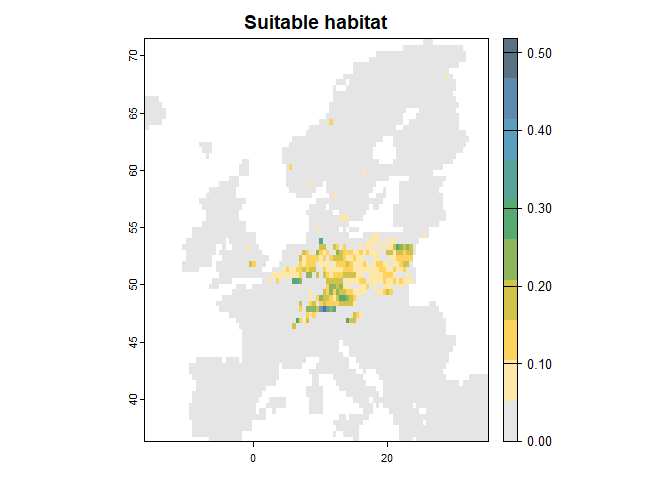
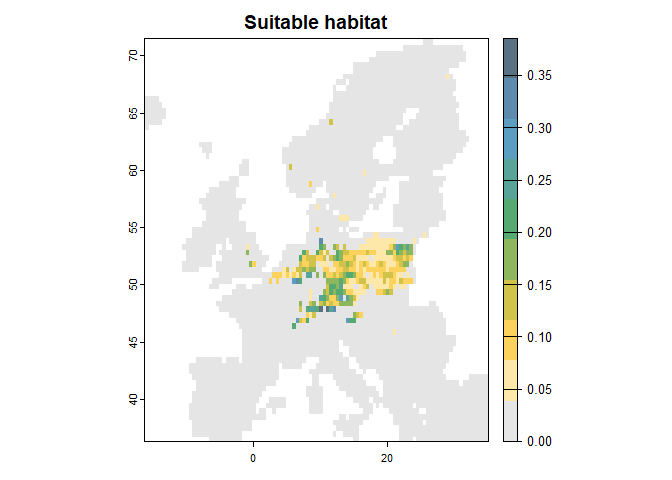
:bug: fix to make checks work

diff --git a/README.md b/README.md
@@ -73,7 +73,7 @@ InSiGHTS on it. Note that this also works on any other range estimate
 provided directly as a SpatRaster.
 
 ``` r
-# Train a simple SDM
+# Load test data from ibis.iSDM package
 background <- terra::rast(system.file('extdata/europegrid_50km.tif', package='ibis.iSDM',mustWork = TRUE))
 virtual_points <- sf::st_read(system.file('extdata/input_data.gpkg', package='ibis.iSDM',mustWork = TRUE),'points',quiet = TRUE)
 ll <- list.files(system.file('extdata/predictors',package = 'ibis.iSDM',mustWork = TRUE),full.names = T)
@@ -103,14 +103,14 @@ plot(out, col = c("grey90", "#FDE8A9", "#FBD35C", "#D1C34A", "#8EB65C",
      main = "Suitable habitat")
 ```
 
-<img src="man/figures/README-Train-1.png" width="100%" />
+<img src="man/figures/README-Train a simple SDM-1.png" width="100%" />
 
 ``` r
 
 # Summarize
 insights_summary(out)
 #>   time suitability unit
-#> 1   NA    80327.31  km2
+#> 1   NA    81641.67  km2
 ```
 
 Of course it is also possible to directly supply a multi-dimensional
